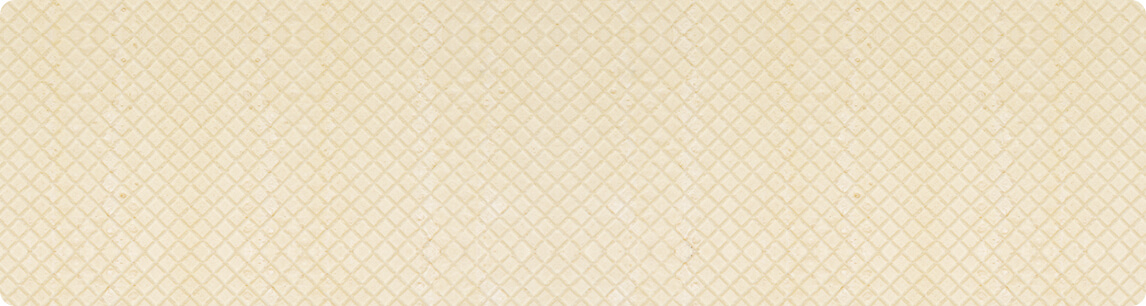
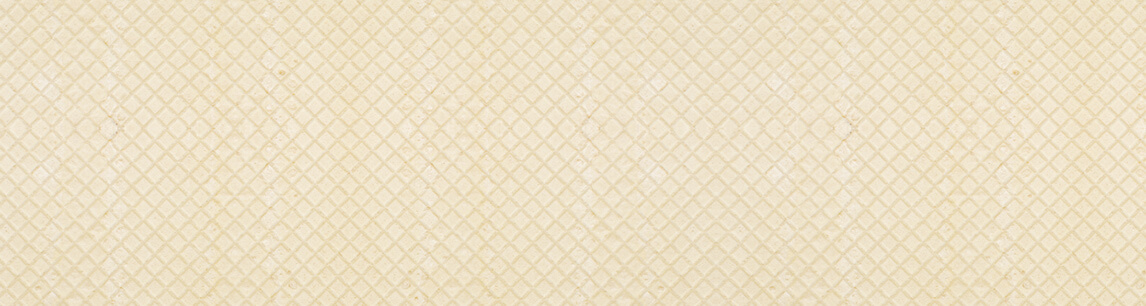
Сетка

Changed region(s): [[0.0, 0.0, 1.0, 1.0]]

diff --git a/css/style.css b/css/style.css
@@ -59,9 +59,9 @@ body {
   line-height: 44px;
   color: #ffffff;
   text-decoration: none;
-  background-image: -moz-linear-gradient( 90deg, rgb(231,74,53) 0%, rgb(242,104,67) 100%);
-  background-image: -webkit-linear-gradient( 90deg, rgb(231,74,53) 0%, rgb(242,104,67) 100%);
-  background-image: -ms-linear-gradient( 90deg, rgb(231,74,53) 0%, rgb(242,104,67) 100%);
+  background-image: linear-gradient( 90deg, rgb(231,74,53) 0%, rgb(242,104,67) 100%);
+  background-image: linear-gradient( 90deg, rgb(231,74,53) 0%, rgb(242,104,67) 100%);
+  background-image: linear-gradient( 90deg, rgb(231,74,53) 0%, rgb(242,104,67) 100%);
   box-shadow: 0px 2px 2px 0px rgba(172, 16, 0, 0.64);
   padding: 18px 40px;
   border-radius: 40px;
@@ -82,8 +82,9 @@ font-size: 18px;
   height: 229px;
   background-image: url("../img/background1.jpg");
   background-color:#b20f2f;
-  background-repeat: no-repeat;
+  background-repeat: repeat;
   border-radius: 15px;
+  box-sizing: border-box;
 }
 
 .baner2 {
@@ -91,8 +92,9 @@ font-size: 18px;
   height: 229px;
   background-image: url("../img/background2.jpg");
   background-color:#4e2b1b;
-  background-repeat: no-repeat;
+  background-repeat: repeat;
   border-radius: 15px;
+  box-sizing: border-box;
 }
 
 .baner-btn {
@@ -105,32 +107,19 @@ font-size: 18px;
   text-align: center;
   vertical-align: middle;
   color: #ffffff;
-  background-image: gradient( 90deg, rgb(231,74,53) 0%, rgb(242,104,67) 100%);
-  background-image: linear-gradient( 90deg, rgb(231,74,53) 0%, rgb(242,104,67) 100%);
-  background-image: linear-gradient( 90deg, rgb(231,74,53) 0%, rgb(242,104,67) 100%);
-  opacity: 0.988;
-  box-shadow: 0px 2px 2px 0px rgba(172, 16, 0, 0.64);
-}
-
-.form-btn {
-  font: inherit;
-  font-size: 18px;
-  line-height: 24px;
-  padding: 13px 20px;
-  text-decoration: none;
-  border-radius: 40px;
-  text-align: center;
-  vertical-align: middle;
-  color: #ffffff;
-  background-image: gradient( 90deg, rgb(231,74,53) 0%, rgb(242,104,67) 100%);
-  background-image: linear-gradient( 90deg, rgb(231,74,53) 0%, rgb(242,104,67) 100%);
   background-image: linear-gradient( 90deg, rgb(231,74,53) 0%, rgb(242,104,67) 100%);
   opacity: 0.988;
   box-shadow: 0px 2px 2px 0px rgba(172, 16, 0, 0.64);
 }
 
 .products-item img {
-  border-radius: 140px;
+  border-radius: 50%;
+}
+
+.products-item h2 {
+	font-size: 16px;
+	line-height: 22px;
+	text-decoration: underline;
 }
 
 .product-price {
@@ -207,4 +196,140 @@ font-size: 18px;
 .footer-links a,
 .footer-copy a {
   color: #ffffff;
+}
+
+/* ----- Сеточные стили ----- */
+
+.main-header {
+  min-height: 74px;
+  outline: 1px solid red;
+}
+
+.container {
+  display: flex;
+}
+
+.main-navigation {
+  outline: 1px solid black;
+  min-height: 74px;
+  width: 600px;
+  display: flex;
+  justify-content: flex-start;
+}
+
+.main-header-logo {
+  min-height: 74px;
+}
+
+.site-navigation {
+  outline: 1px solid green;
+  margin: 0;
+  padding: 0;
+  min-height: 74px;
+  width: 450px;
+  display: flex;
+}
+
+.site-navigation>li {
+  position: relative;
+}
+
+.site-navigation .catalog-menu {
+  position: absolute;
+  margin: 0;
+  padding: 0;
+  top: 20px;
+  display: none;
+}
+
+.site-navigation> li:hover .catalog-menu {
+  display: block;
+}
+
+.user-navigation {
+  outline: 1px solid yellow;
+  margin: 0;
+  padding: 0;
+  min-height: 74px;
+  width: 262px;
+}
+
+.baners {
+  display: flex;
+  justify-content:center;
+  margin-top: 40px;
+}
+
+.baner1 {
+  margin-right: 13px;
+  padding: 22px 11px;
+}
+
+.baner2 {
+  margin-left: 13px;
+  padding: 22px 11px;
+}
+
+.products {
+  display: flex;
+  width: 1146px;
+  margin: 40px auto;
+  justify-content: space-between;
+  flex-wrap: wrap;
+}
+
+.products-item {
+  position: relative;
+  width: 23.2%;
+  height: auto;
+  flex-basis: 23.2%;
+  flex-shrink: 0;
+  vertical-align: top;
+}
+
+.product-price {
+  position: absolute;
+  top: 213px;
+}
+
+.products-item h2 {
+  text-align: center;
+}
+
+.advantages {
+  margin: 0 auto;
+}
+
+.news {
+  display: flex;
+  justify-content:center;
+  margin: 40px auto;
+}
+
+.news-left {
+  margin-right: 13px;
+  padding: 22px 11px;
+  box-sizing: border-box;
+}
+
+.news-right {
+  margin-left: 13px;
+  padding: 22px 11px;
+  box-sizing: border-box;
+}
+
+.map {
+  margin: 0 auto;
+}
+
+.container-block {
+  display: flex;
+  justify-content: center;
+  margin: 34px auto 30px auto;
+}
+
+.footer-link,
+.footer-social {
+  margin: 0;
+  padding: 0;
 }

diff --git a/index.html b/index.html
@@ -9,6 +9,7 @@
   </head>
   <body>
     <header class="main-header">
+      <div class="container">
       <nav class="main-navigation">
         <div class="logo">
           <a class="main-header-logo">
@@ -36,6 +37,7 @@
           <li class="user-item"><a href="#">Пусто</a></li>
         </ul>
       </nav>
+      </div>
       <div class="info">
         <span class="info-text">
           c 10 до 20, ежедневно
@@ -155,7 +157,7 @@
   				</p>
   				<form method="post">
             <input type="mail" placeholder="Электронная почта">
-  					<button type="submit" class="form-btn" value="Отправить">Отправить</button>
+  					<button type="submit" class="baner-btn" value="Отправить">Отправить</button>
   				</form>
   			</div>
   		</section>

diff --git a/catalog.html b/catalog.html
@@ -45,7 +45,7 @@
         </span>
       </div>
     </header>
-    <main class="container">
+    <main class="container-catalog">
       <h1 class="visually-hidden">Каталог «Gllacy»</h1>
       <h2>Сливочное мороженое</h2>
       <section class="filter">
